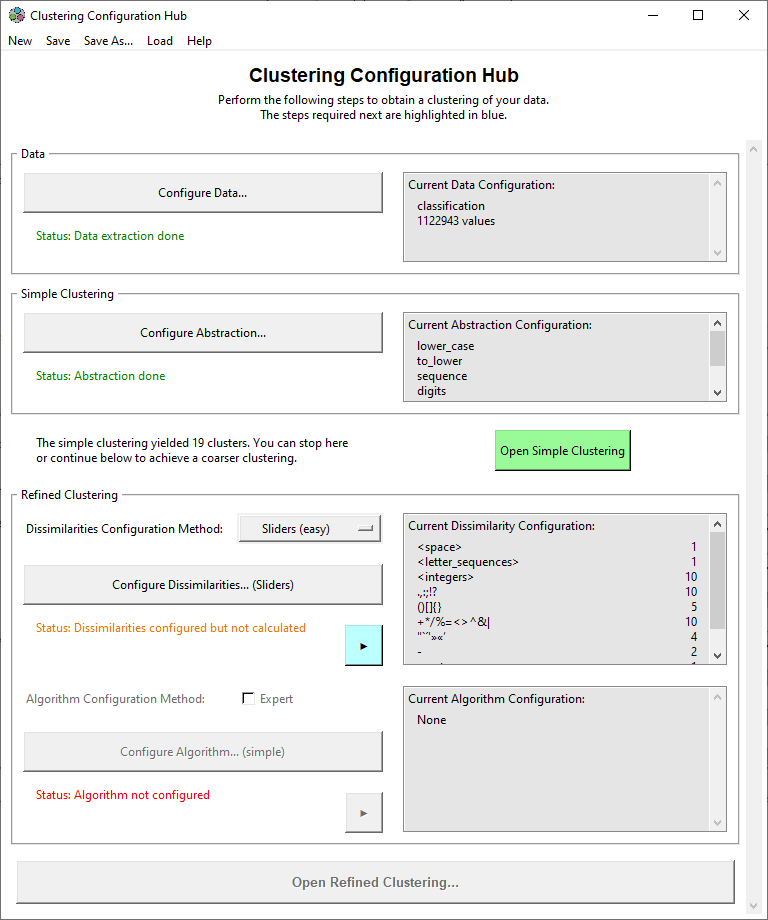
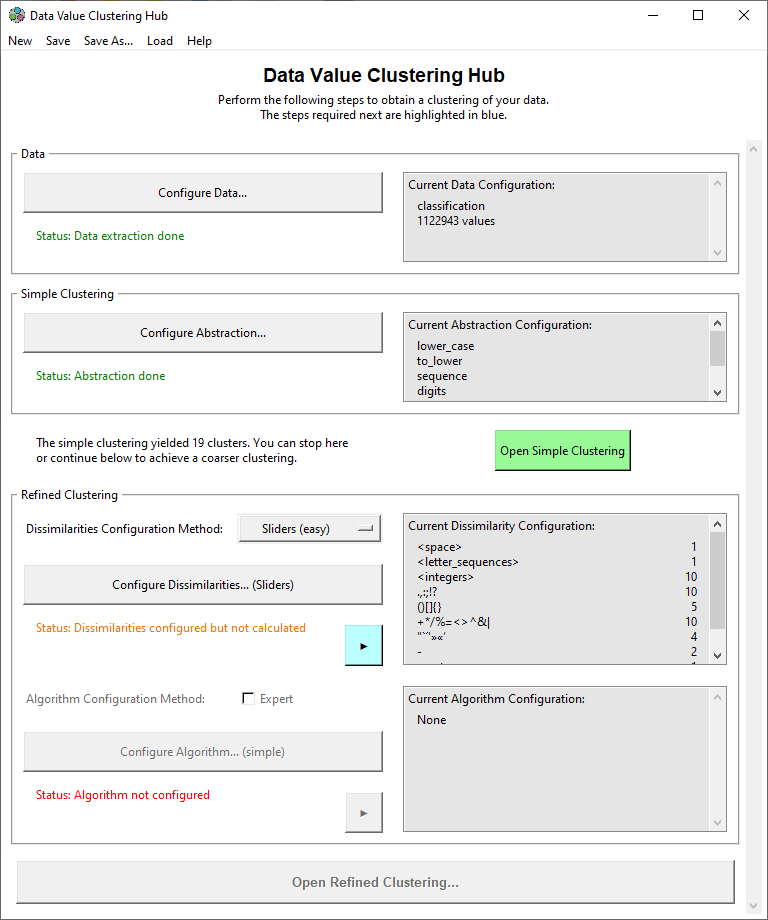
Rename hub view

Changed region(s): [[0.3125, 0.0609, 0.6875, 0.0913], [0.0312, 0.0, 0.25, 0.0304]]

diff --git a/DataValueClustering/gui_general/help_popup_gui.py b/DataValueClustering/gui_general/help_popup_gui.py
@@ -12,9 +12,9 @@ from gui_general.window_size import set_window_size_simple
 
 def menu_help_hub(master, restricted):
     """help popup for hub view"""
-    caption = "Hub"
+    caption = "Data Value Clustering Hub"
     text = [
-        "The Hub view is the central view of this application for data value clustering. It allows you to navigate through the configuration steps and subsequently access the calculated clustering.",
+        "The Data Value Clustering Hub view is the central view of this application for data value clustering. It allows you to navigate through the configuration steps and subsequently access the calculated clustering.",
         "",
         ["Configuration"],
         "The data value clustering typically requires you to perform 4 steps: You need to select the data, configure the abstraction for the simple clustering and configure both the dissimilarities and the clustering algorithm for the refined clustering.",

diff --git a/DataValueClustering/gui_center/hub.py b/DataValueClustering/gui_center/hub.py
@@ -37,7 +37,7 @@ from gui_result.validation_questionnaire import get_suggested_algorithms, get_su
     get_suggested_abstraction_modifications, get_suggested_distance_modifications, \
     get_suggested_parameter_modifications, ValidationAnswer
 
-TITLE = "Clustering Configuration Hub"
+TITLE = "Data Value Clustering Hub"
 
 SIMPLE_CLUSTERING_HINT_1 = "The simple clustering yielded "
 SIMPLE_CLUSTERING_HINT_2 = " clusters. You can stop here \nor continue below to achieve a coarser clustering."
